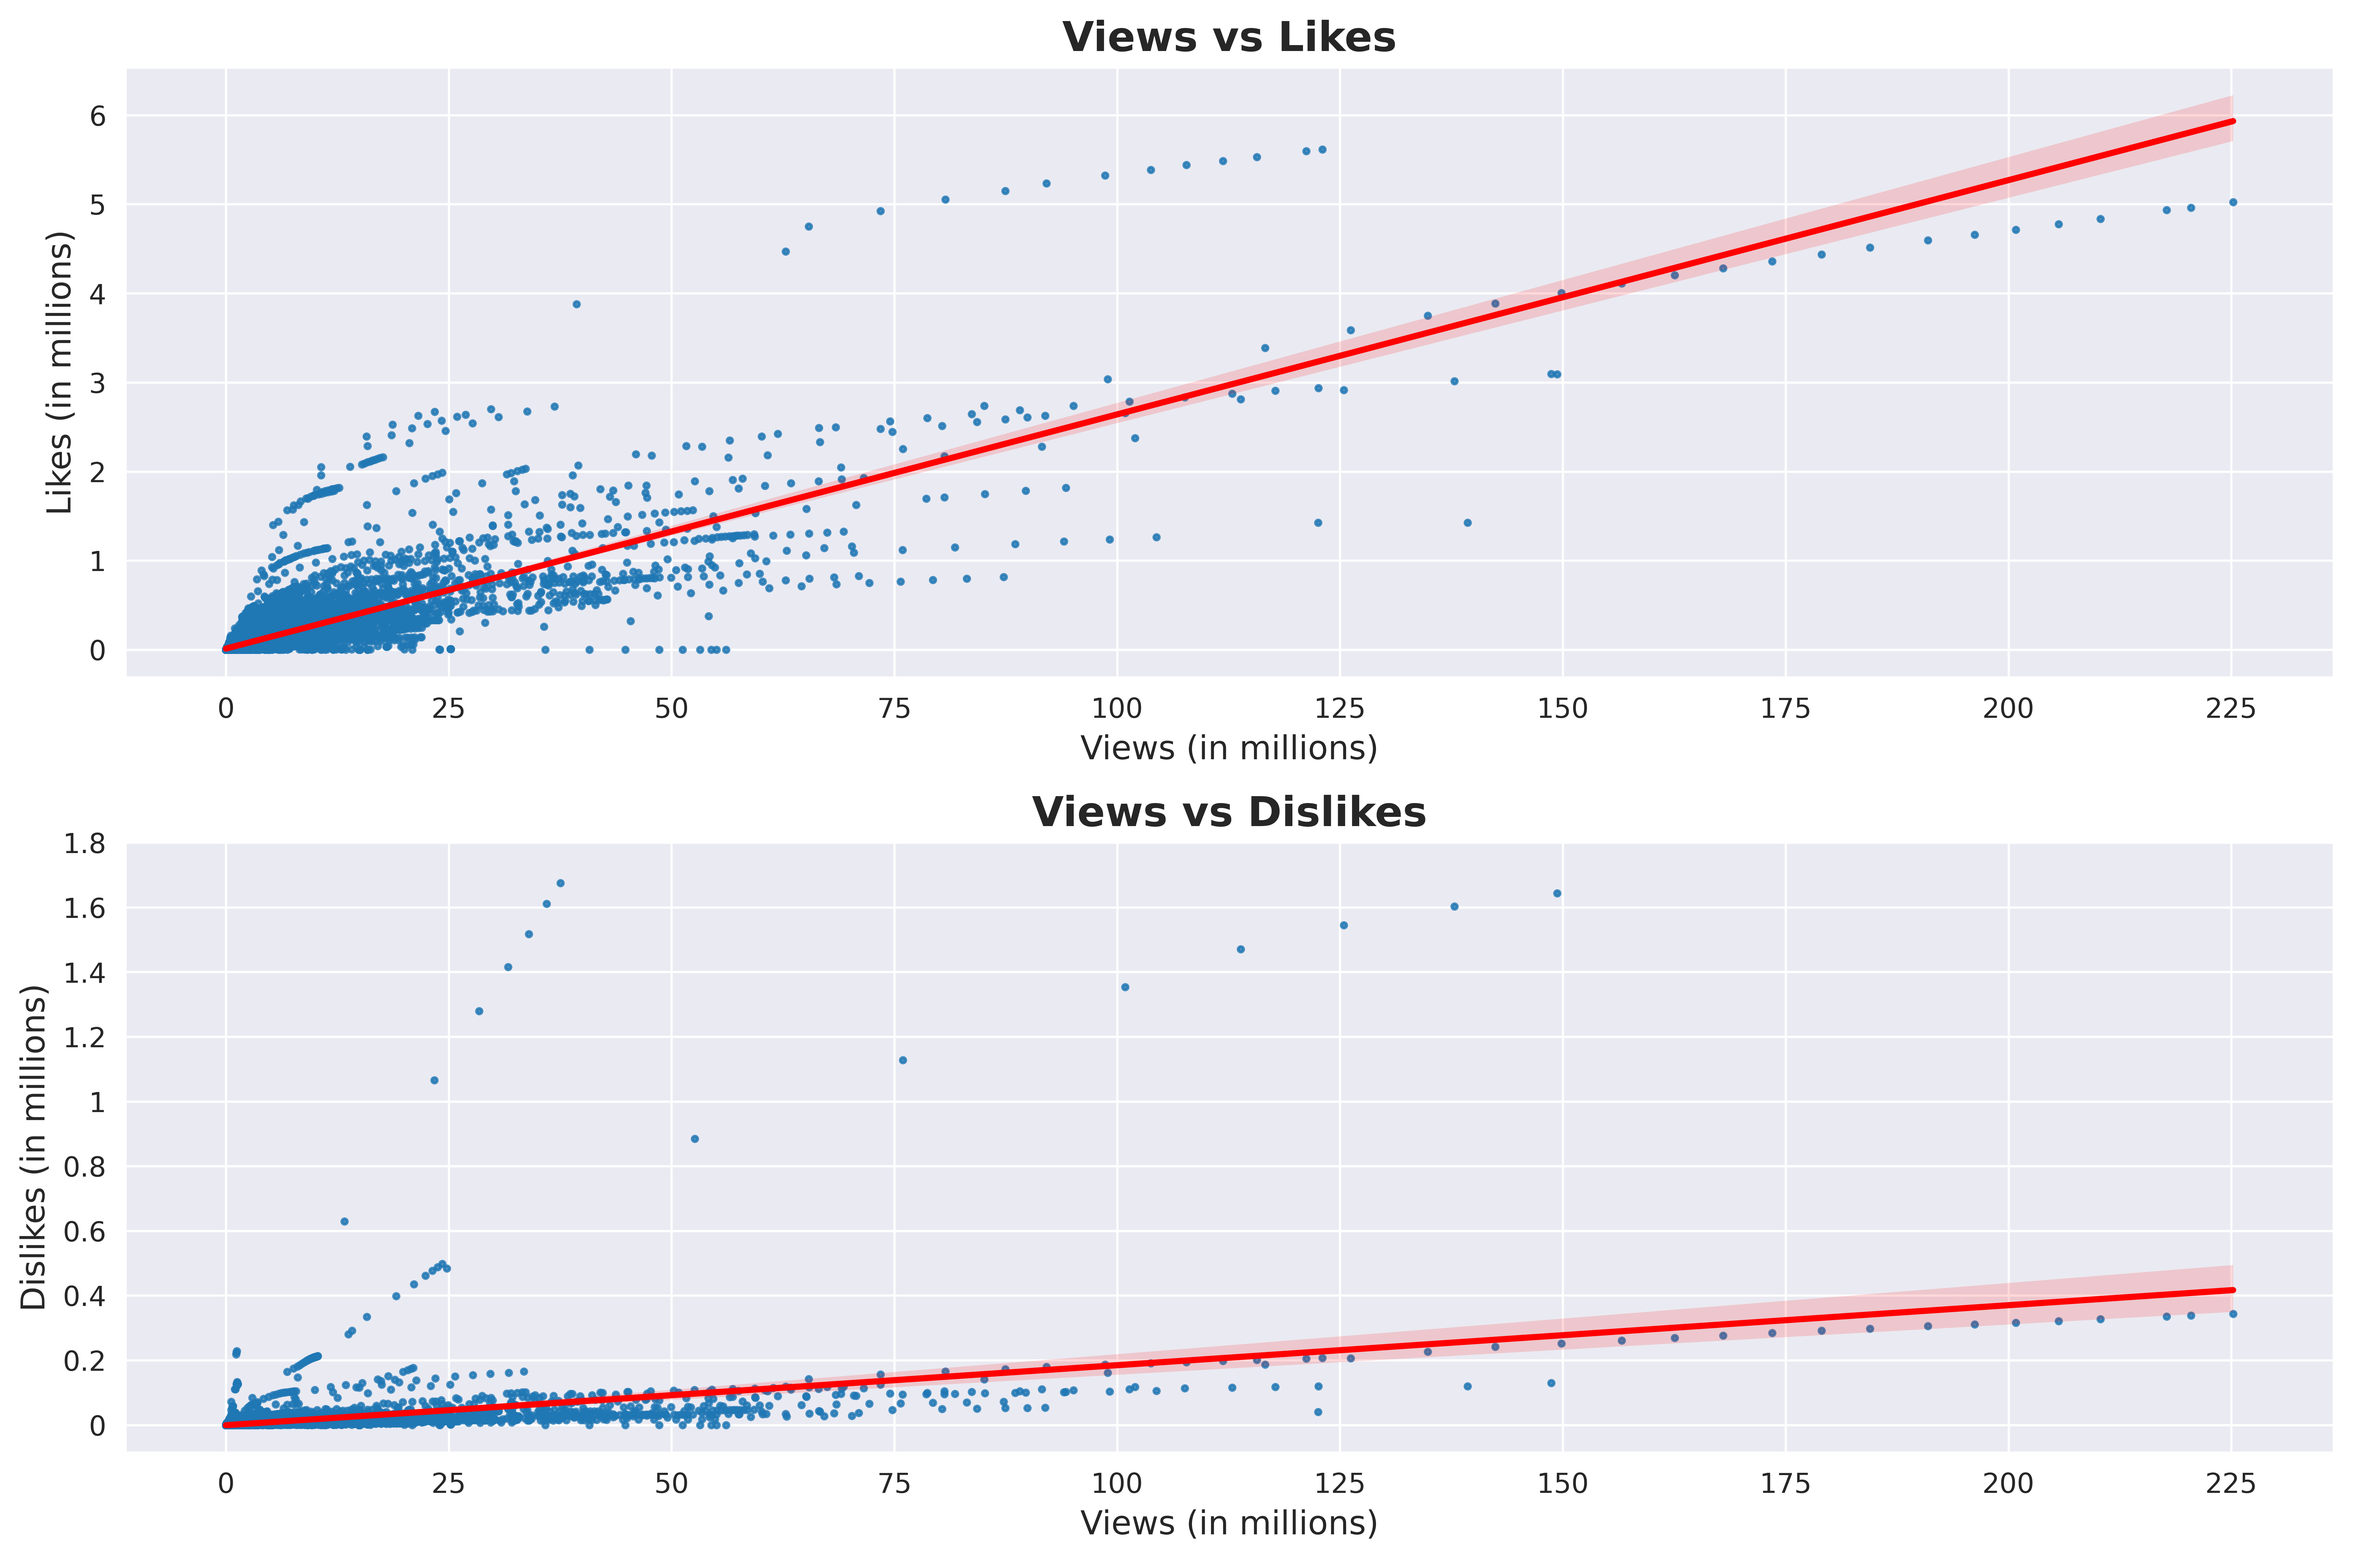
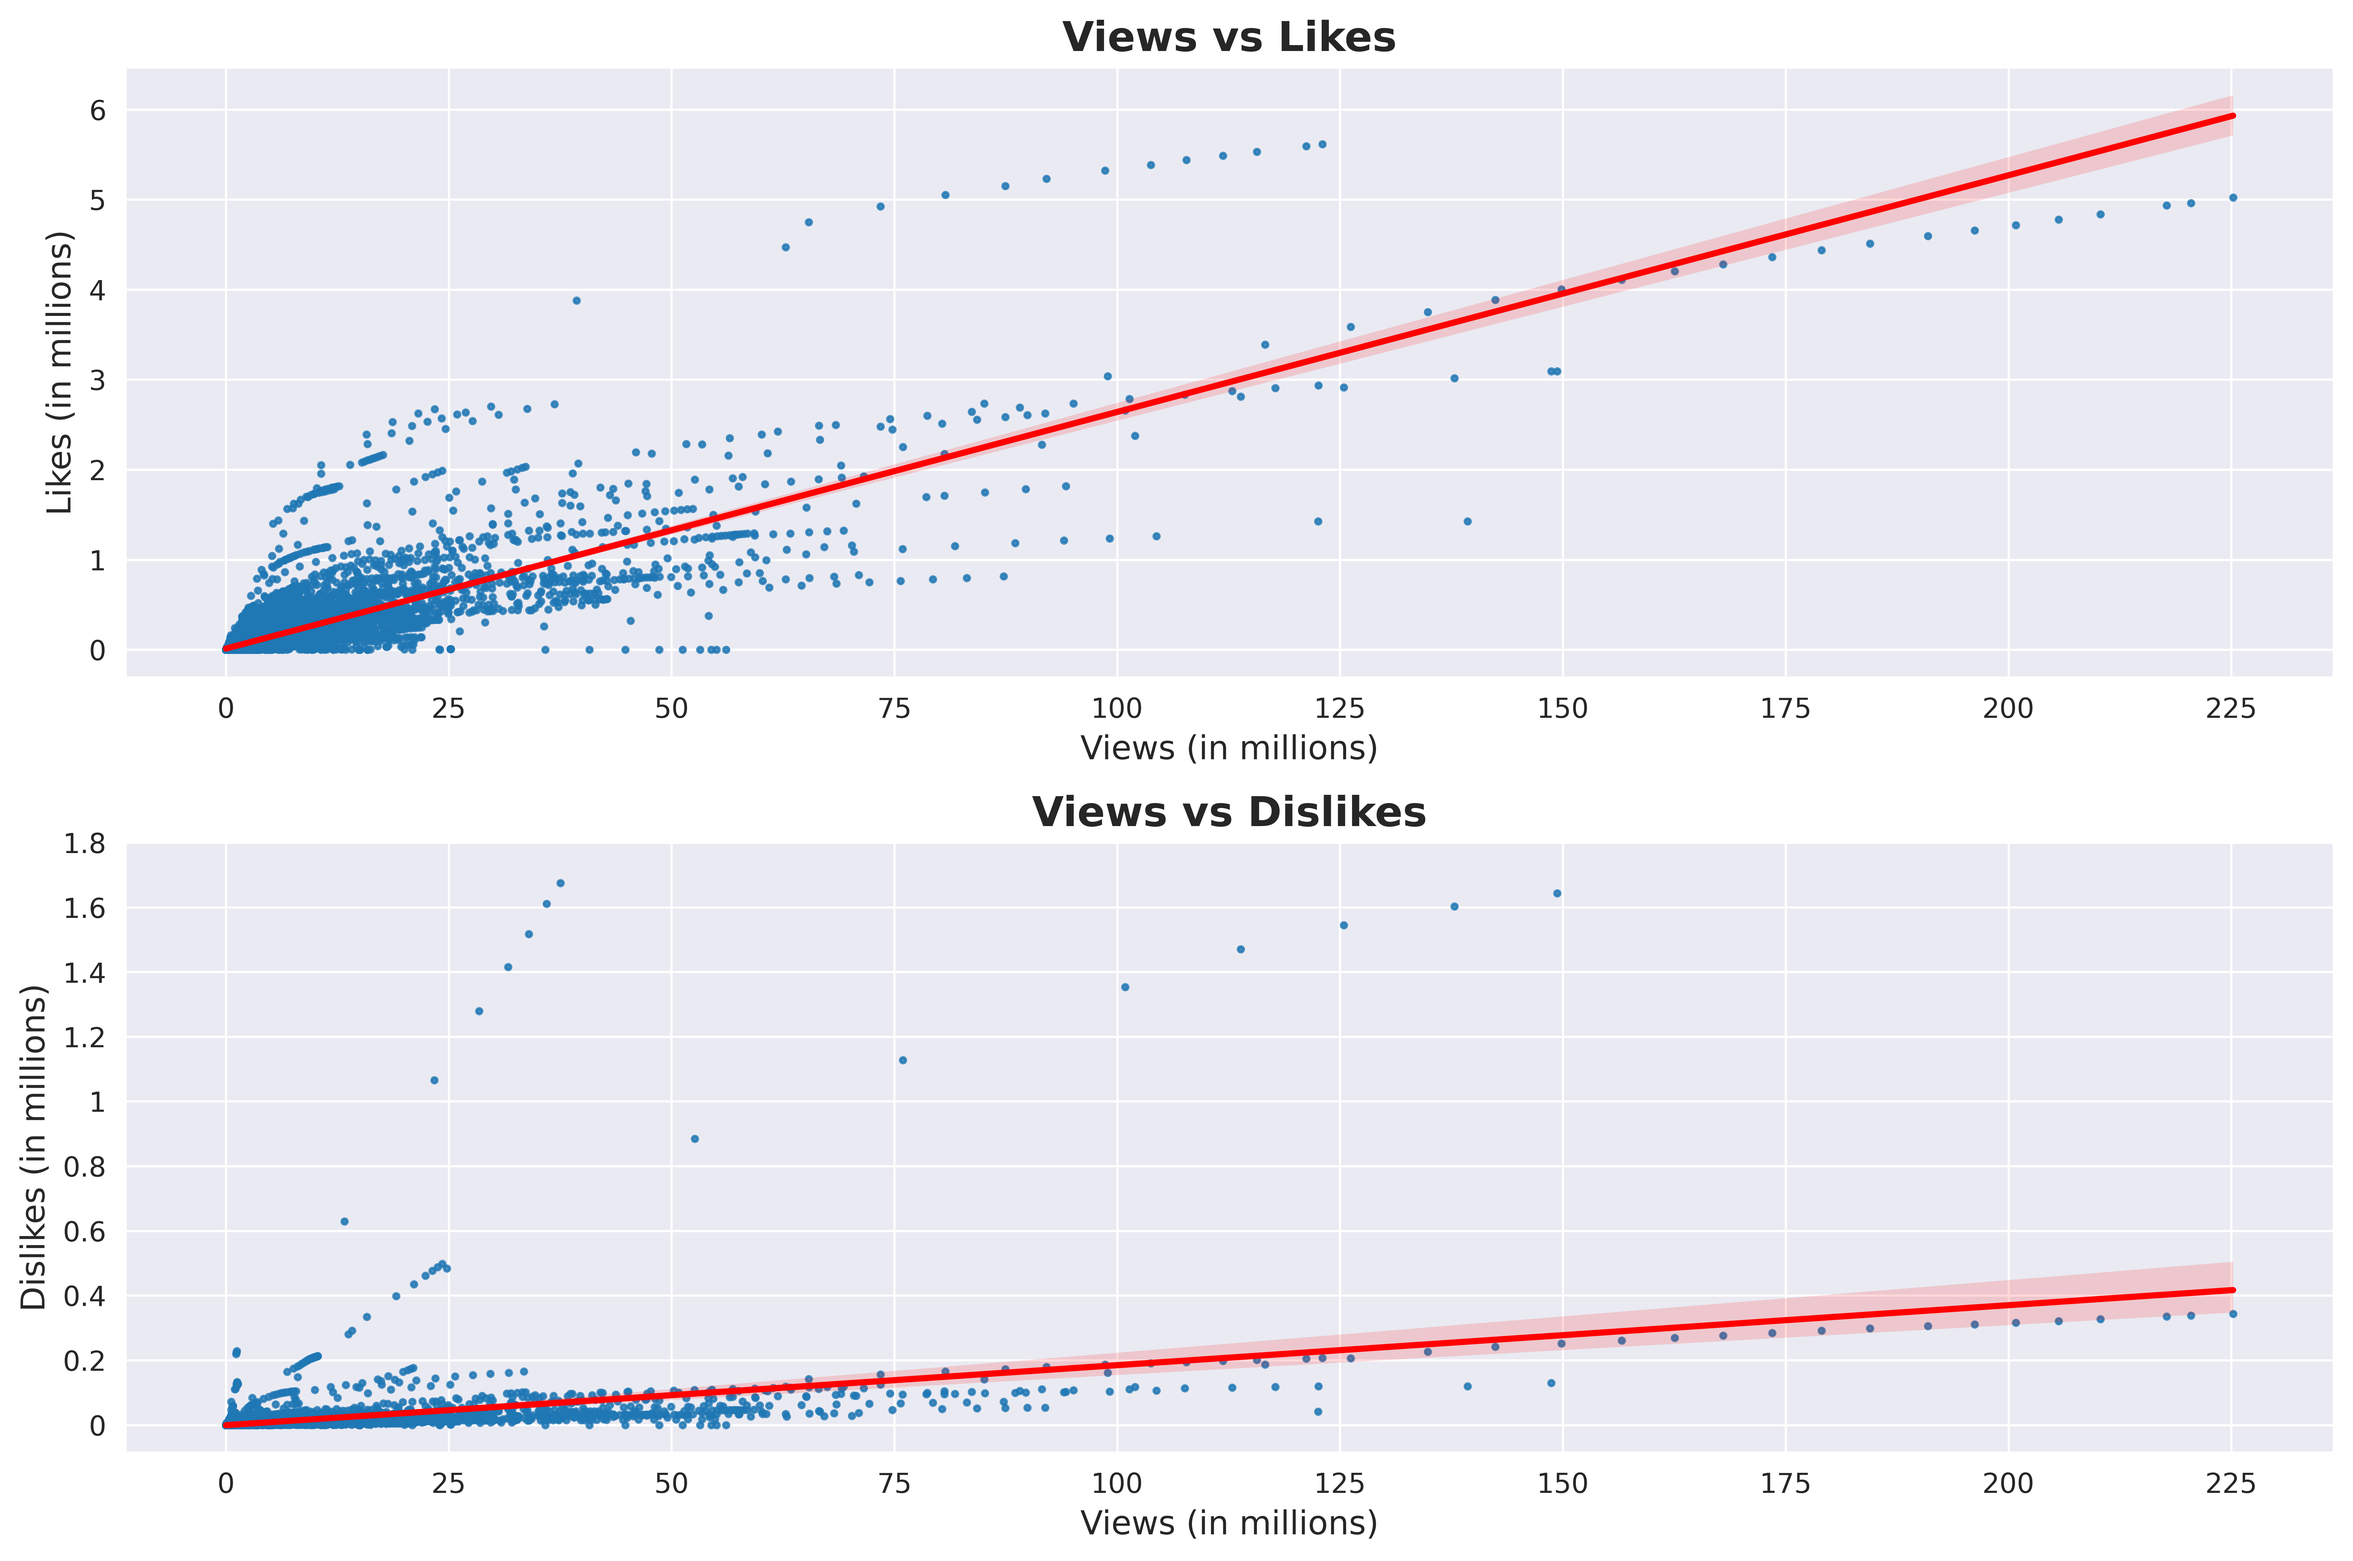
fixed error message and updated documentation

diff --git a/adam_visualization1.py b/adam_visualization1.py
@@ -3,9 +3,10 @@
 
     ISTA 131 Final Project
 
-    Visualization code #1. Plots number of view vs number of likes and dislikes on respective
-    subplots, also showing regression lines. Interesting to note how the like/comment ratio follows
-    a number of distinct trend lines, as opposed to being randomly scattered.
+    Visualization code #1. Mode 1 plots number of view vs number of likes and dislikes on respective
+    subplots, also showing regression lines. Mode 2 does the same but overlapping on one plot.Interesting 
+    to note how the like/comment ratio follows a number of distinct trend lines, as opposed to points being 
+    randomly scattered.
 """
 
 import pandas as pd
@@ -15,7 +16,10 @@ import seaborn as sns
 from matplotlib import pyplot as plt
 
 """
-    Open CSV and calls function to make subplots
+    Open CSV and calls user input to select mode.
+    Enter 1 to display views vs likes and views vs dislikes as two separate subplots.
+    Enter 2 to display views vs likes and dislikes overlapping on one plot.
+    Will call appropriate functions following input.
 """
 def setup():
     csv = pd.read_csv('./datasets/USvideos.csv')
@@ -42,9 +46,10 @@ def make_subplots(csv):
     f = plt.figure(figsize=(12, 8))
     gs = f.add_gridspec(2, 1)
 
+    # Makes views vs likes subplot using Seaborn's darkgrid style.
     with sns.axes_style("darkgrid"):
         ax = f.add_subplot(gs[0, 0])
-        plot = sns.regplot(x, y, data=csv, scatter_kws={'s':4}, line_kws={"color": "red"})
+        plot = sns.regplot(x=x, y=y, data=csv, scatter_kws={'s':4}, line_kws={"color": "red"})
         plot.set_xlabel('Views (in millions)', fontsize=12)
         plot.set_ylabel('Likes (in millions)', fontsize=12)
         plot.set_title('Views vs Likes', fontsize=15, weight=600)
@@ -53,9 +58,10 @@ def make_subplots(csv):
         plt.yticks([0, 1000000, 2000000, 3000000, 4000000, 5000000, 6000000],\
             [0, 1, 2, 3, 4, 5, 6])
 
+    # Makes views vs dislikes subplot using Seaborn's darkgrid style.
     with sns.axes_style("darkgrid"):
         ax = f.add_subplot(gs[1, 0])
-        plot2 = sns.regplot(x, z, data=csv, scatter_kws={'s':4}, line_kws={"color": "red"})
+        plot2 = sns.regplot(x=x, y=z, data=csv, scatter_kws={'s':4}, line_kws={"color": "red"})
         plot2.set_xlabel('Views (in millions)', fontsize=12)
         plot2.set_ylabel('Dislikes (in millions)', fontsize=12)
         plot2.set_title('Views vs Dislikes', fontsize=15, weight=600)
@@ -71,10 +77,19 @@ def make_subplots(csv):
     print('-----')
     plt.show()
 
+"""
+    Plots views vs likes AND dislikes on one plot where the latter overlap.
+    Initializes plot, sets custom axes and labels, saves the image, and shows the final output.
+"""
 def make_plot(csv):
+    x = csv.views
+    y = csv.likes
+    z = csv.dislikes
+
+    # Makes views vs likes and dislikes regplot using Seaborn's darkgrid style.
     with sns.axes_style("darkgrid"):
-        plot = sns.regplot(csv.views, csv.likes, data=csv, scatter_kws={'s':2})
-        plot2 = sns.regplot(csv.views, csv.dislikes, data=csv, scatter_kws={'s':2})
+        plot = sns.regplot(x=x, y=y, data=csv, scatter_kws={'s':2})
+        plot2 = sns.regplot(x=x, y=z, data=csv, scatter_kws={'s':2})
         plot.set_xlabel('Views (in millions)', fontsize=12)
         plot.set_ylabel('Likes / Dislikes (in millions)', fontsize=12)
         plot.set_title('Views vs Likes / Dislikes', fontsize=15, weight=600)
@@ -83,6 +98,7 @@ def make_plot(csv):
         plt.yticks([0, 1000000, 2000000, 3000000, 4000000, 5000000, 6000000],\
             [0, 1, 2, 3, 4, 5, 6])
         plt.legend(labels=["Likes","Dislikes"])
+
     plt.savefig('ADAM_VIS1-ALT.png', bbox_inches="tight", dpi=600)
     print('-----')
     print('Figure has been saved as ADAM_VIS1-ALT.png')
